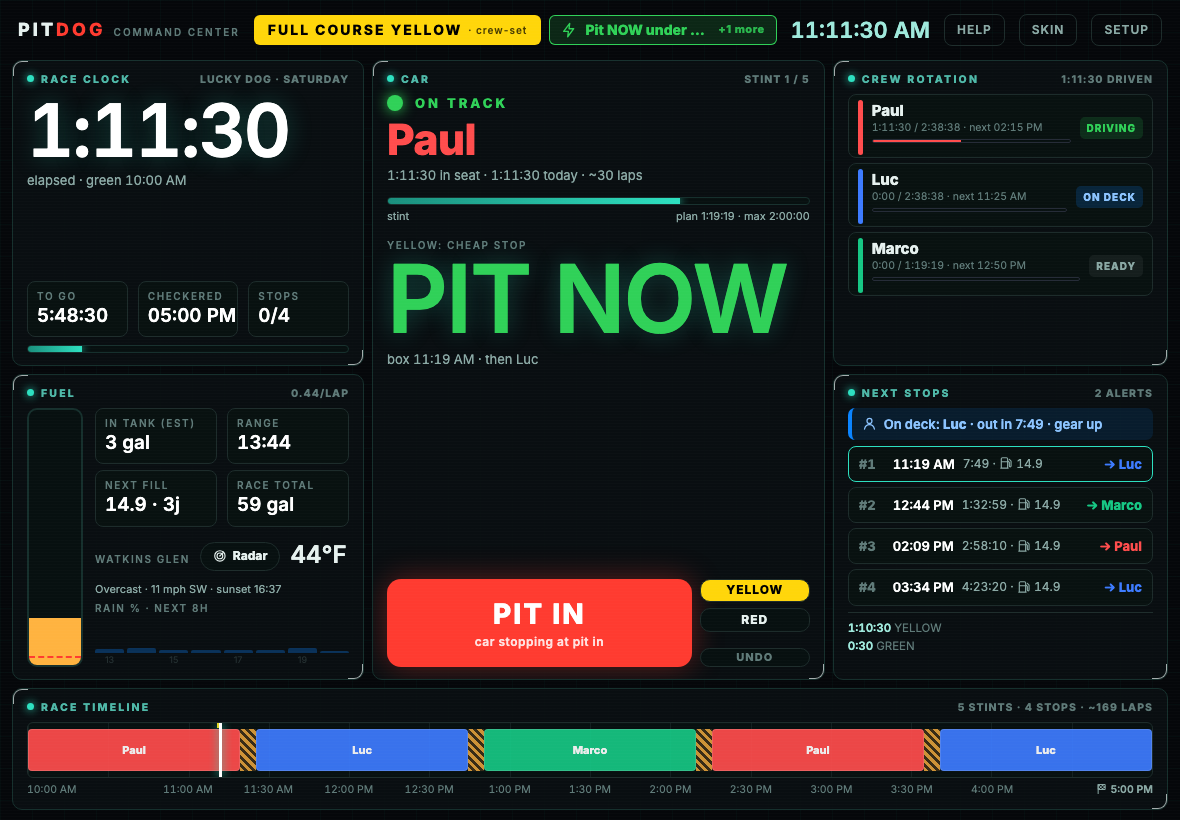
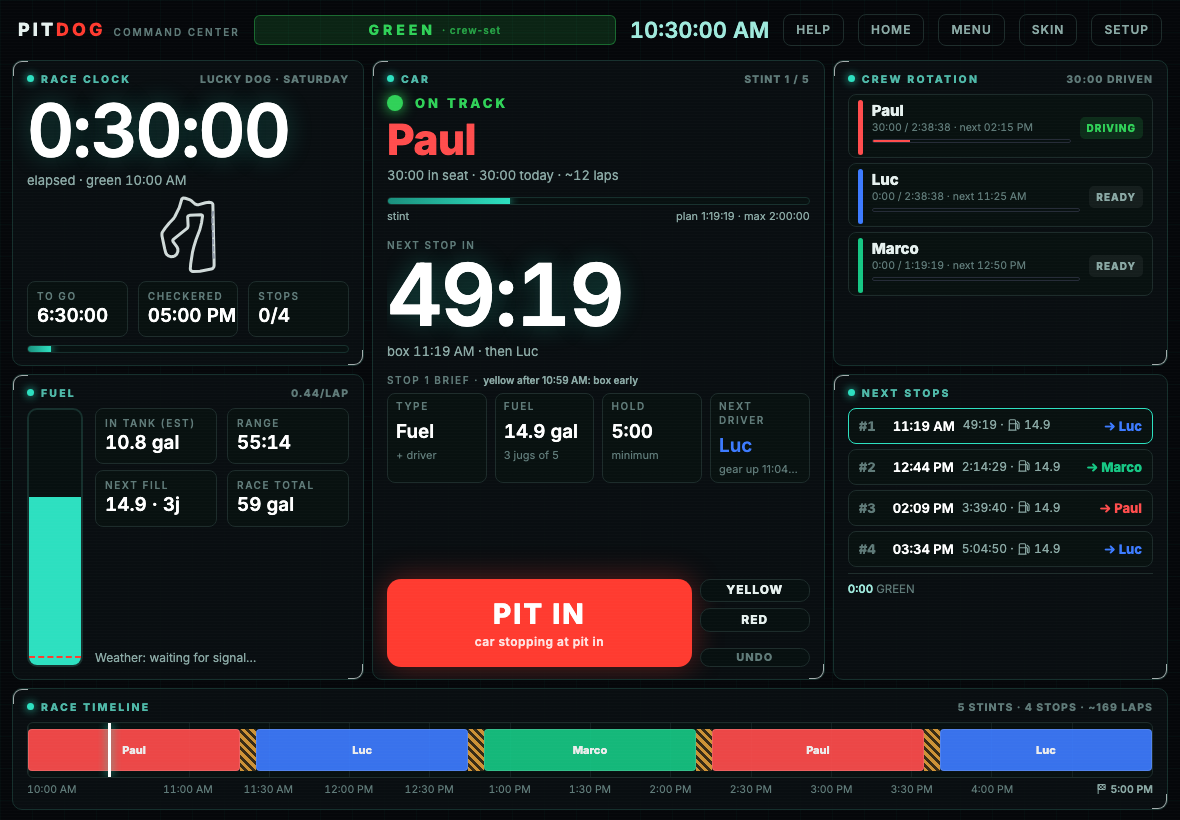
Docs: screenshots for Race now, records, landscape, iPad portrait, menu

diff --git a/README.md b/README.md
@@ -34,7 +34,7 @@
 - **Weather** needs signal; without it the command center shows the last reading.
 
 ## Screenshots
-`docs/screenshots/` (Night skin): race screen with the next-stop hero, a pit stop (fuel stepper, filled-to-full), the iPad command center on track and in the pits, help mode, the skin list, the radar, Home, a debrief and team sync.
+`docs/screenshots/` (Night skin): race screen with the next-stop hero, a pit stop (fuel stepper, filled-to-full), the iPad command center on track (with the stop brief and track map) and in the pits, help mode, the skin list, the radar, Home, a debrief, team sync, Race now with presets, team records, a phone on its side (on track and in the pits), the command center on an iPad in portrait, and the menu.
 
 ## Project layout
 ```
